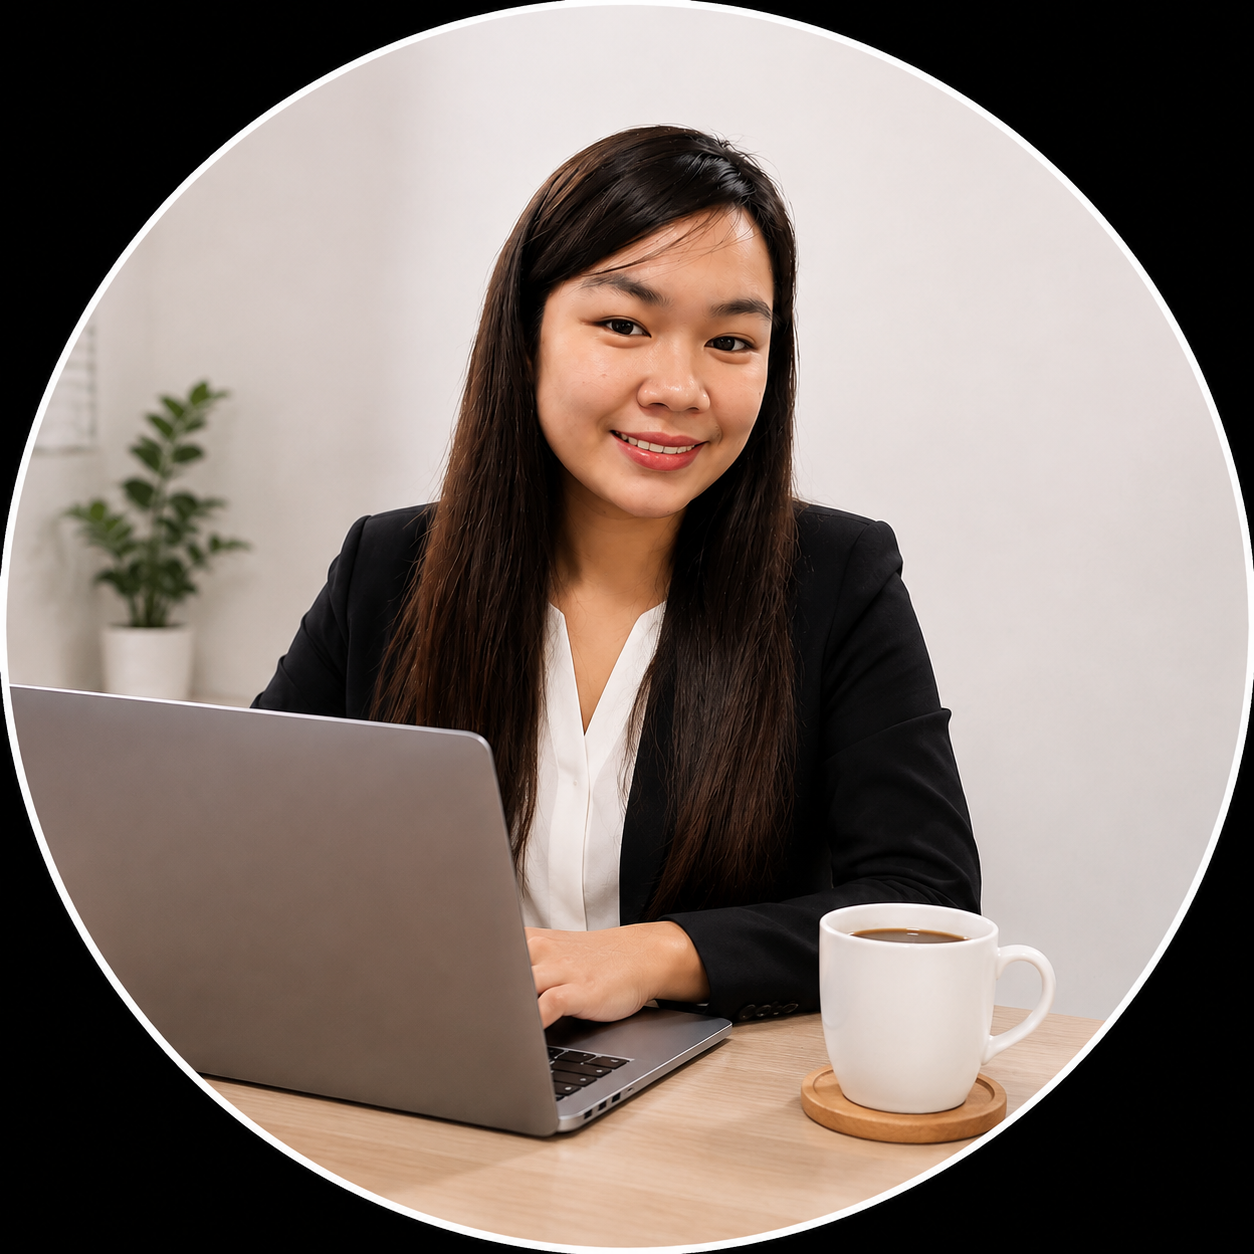
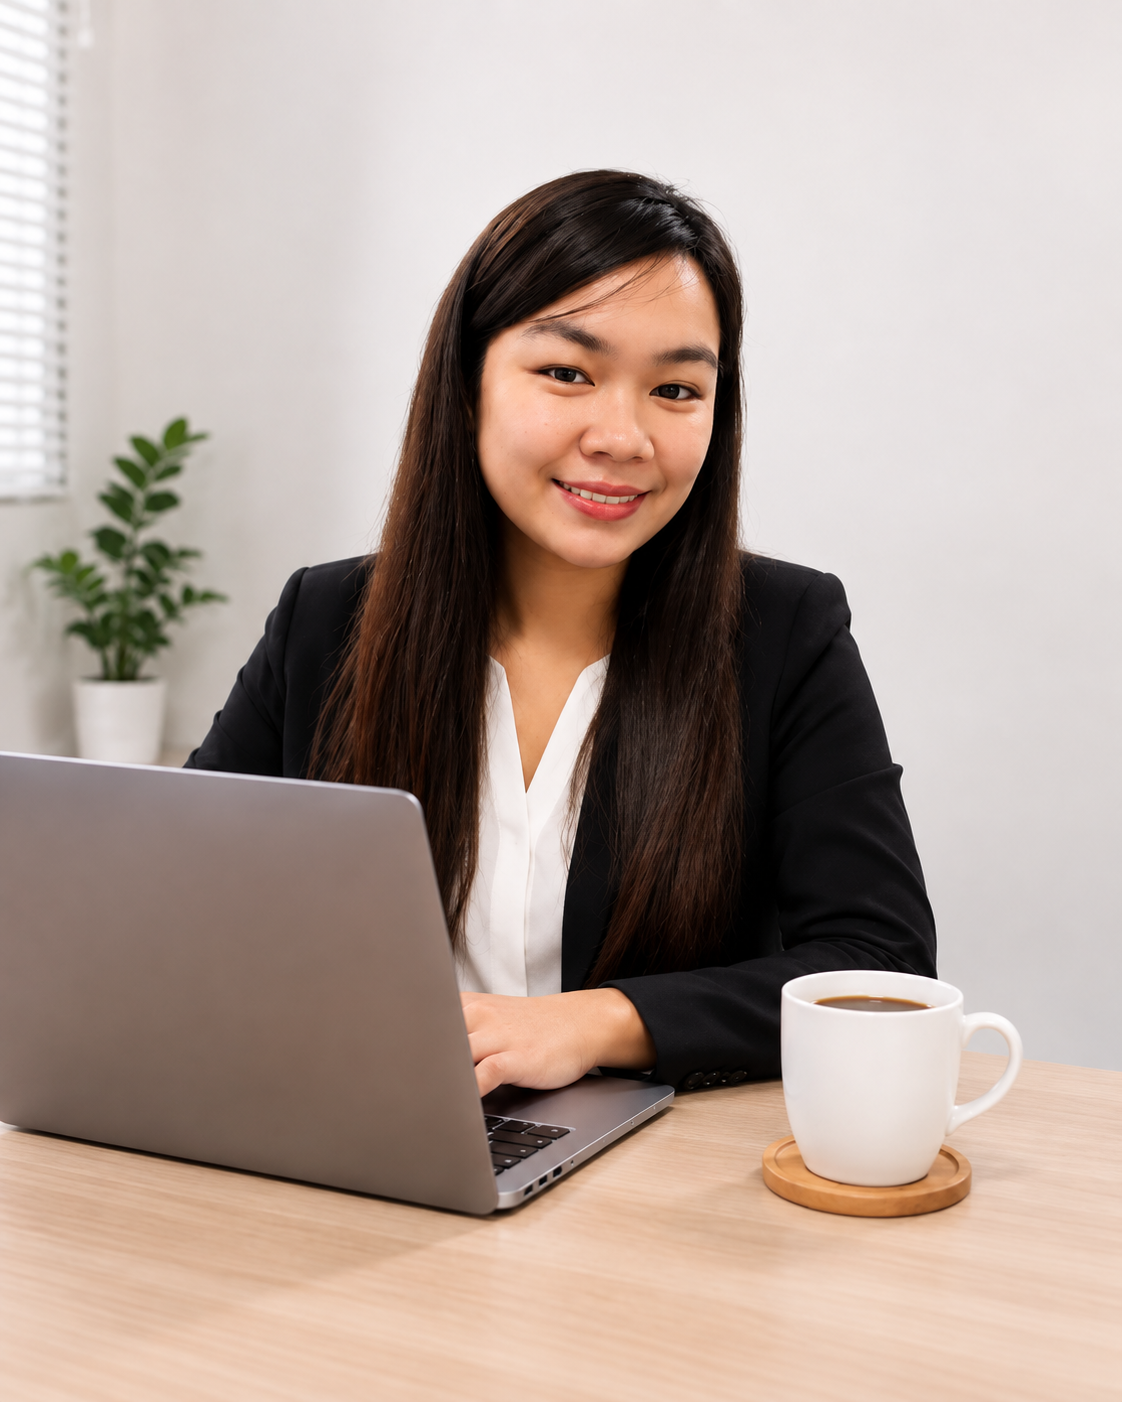
Make portfolio filters functional and update profile image

diff --git a/resources/views/home.blade.php b/resources/views/home.blade.php
@@ -43,7 +43,7 @@
 </a>
 </div>
 <p class="font-label-sm text-xs text-on-surface-variant/90 mb-space-lg italic">Available for selected ongoing support and project-based work.</p>
-<div class="flex flex-wrap items-center gap-2 font-label-sm text-xs text-on-surface-variant"><span class="px-2.5 py-1 rounded bg-surface-container font-medium">Social &amp; Content</span><span class="px-2.5 py-1 rounded bg-surface-container font-medium">Creative Design</span><span class="px-2.5 py-1 rounded bg-surface-container font-medium">Meta Ads</span><span class="px-2.5 py-1 rounded bg-surface-container font-medium">Web &amp; Digital</span></div>
+<div class="flex flex-wrap items-center gap-2 font-label-sm text-xs text-on-surface-variant" aria-label="Filter selected work"><button type="button" class="hero-work-filter px-2.5 py-1 rounded bg-surface-container font-medium" data-work-filter="social-content-category">Social &amp; Content</button><button type="button" class="hero-work-filter px-2.5 py-1 rounded bg-surface-container font-medium" data-work-filter="ads-creative-category">Creative Design</button><button type="button" class="hero-work-filter px-2.5 py-1 rounded bg-surface-container font-medium" data-work-filter="ads-creative-category">Meta Ads</button><button type="button" class="hero-work-filter px-2.5 py-1 rounded bg-surface-container font-medium" data-work-filter="web-digital-category">Web &amp; Digital</button></div>
 </div>
 <div class="lg:col-span-5 relative flex justify-center lg:justify-end">
 <div class="relative w-full max-w-[420px]">
@@ -261,7 +261,7 @@ if (socialMediaSection) {
   }
 });
 const selectedWorkLinkStyle = document.createElement('style');
-selectedWorkLinkStyle.textContent = `.selected-work-link{display:inline-flex;align-items:center;border-radius:9999px;background:#f3ede9;color:#56423d;padding:.55rem .8rem;font-family:'Plus Jakarta Sans',sans-serif;font-size:.7rem;font-weight:700;letter-spacing:.04em;text-transform:uppercase;transition:background-color .2s ease,color .2s ease,transform .2s ease}.selected-work-link:hover{background:#9a4023;color:#fff;transform:translateY(-1px)}.selected-work-link:focus-visible{outline:2px solid #9a4023;outline-offset:2px}`;
+selectedWorkLinkStyle.textContent = `.selected-work-link{display:inline-flex;align-items:center;border-radius:9999px;background:#f3ede9;color:#56423d;padding:.55rem .8rem;font-family:'Plus Jakarta Sans',sans-serif;font-size:.7rem;font-weight:700;letter-spacing:.04em;text-transform:uppercase;transition:background-color .2s ease,color .2s ease,transform .2s ease}.selected-work-link:hover{background:#9a4023;color:#fff;transform:translateY(-1px)}.selected-work-link:focus-visible{outline:2px solid #9a4023;outline-offset:2px}.hero-work-filter{border:0;cursor:pointer;font:inherit;color:#56423d;transition:background-color .2s ease,color .2s ease,transform .2s ease,box-shadow .2s ease}.hero-work-filter:hover,.hero-work-filter:focus-visible{background:#9a4023;color:#fff;transform:translateY(-1px);box-shadow:0 0 0 2px rgba(154,64,35,.14);outline:none}`;
 document.head.appendChild(selectedWorkLinkStyle);
 const selectedWorkTitle = Array.from(document.querySelectorAll('h2')).find(function (heading) {
   return heading.textContent.trim() === 'Selected Work';
@@ -310,6 +310,13 @@ if (selectedWorkContainer && selectedProjectGrid) {
     link.addEventListener('click', function (event) {
       event.preventDefault();
       activateSelectedCategory(link.getAttribute('href').slice(1));
+    });
+  });
+  document.querySelectorAll('[data-work-filter]').forEach(function (button) {
+    button.addEventListener('click', function () {
+      const category = button.dataset.workFilter;
+      activateSelectedCategory(category);
+      selectedWorkContainer.scrollIntoView({ behavior: 'smooth', block: 'start' });
     });
   });
   activateSelectedCategory('all-selected-work');
